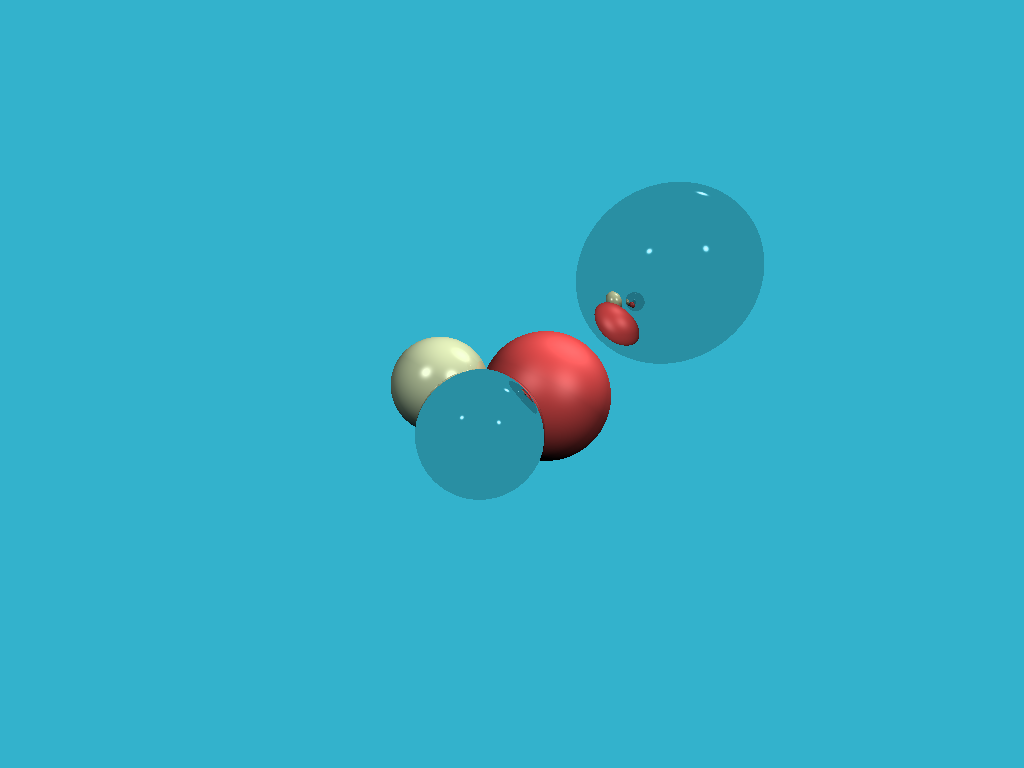
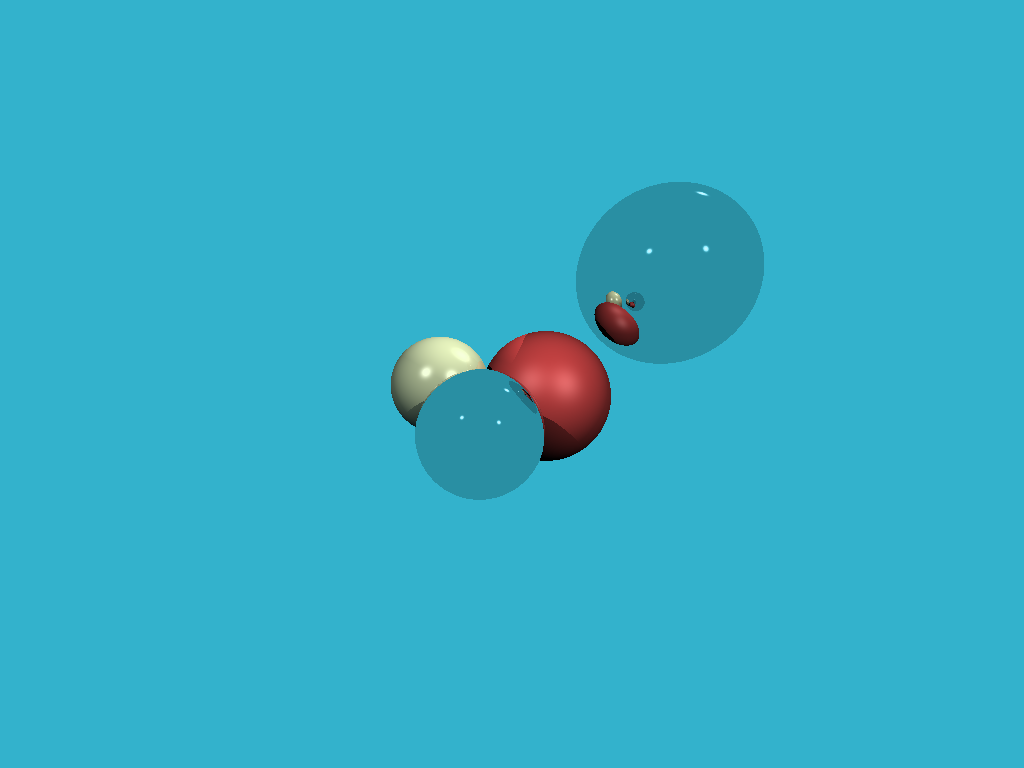
Fix: remove old debug code (oops lol)

Changed region(s): [[0.5, 0.375, 0.625, 0.5312], [0.5312, 0.5312, 0.5625, 0.5938]]

diff --git a/tinyraytracer.py b/tinyraytracer.py
@@ -72,8 +72,7 @@ def do_lighting(ray, point, lit_object, scene, current_recursion_depth=0):
 
     diffuse_light_intensity, specular_light_intensity = 0, 0
     for light in scene.lights:
-        # if not is_shadowed(point_nudge, light, scene.objects):
-        if True:
+        if not is_shadowed(point_nudge, light, scene.objects):
             light_dir = normalise(light.position - point)
 
             # diffuse 
@@ -94,9 +93,6 @@ def do_lighting(ray, point, lit_object, scene, current_recursion_depth=0):
         reflect_colour = 0
 
     colour = diffuse_colour + specular_colour + reflect_colour
-    # if current_recursion_depth == 0 and material.reflective_albedo > 0.5 and np.linalg.norm(colour) < 0.001:
-    #     import pdb
-    #     pdb.set_trace()
 
     return colour
 
